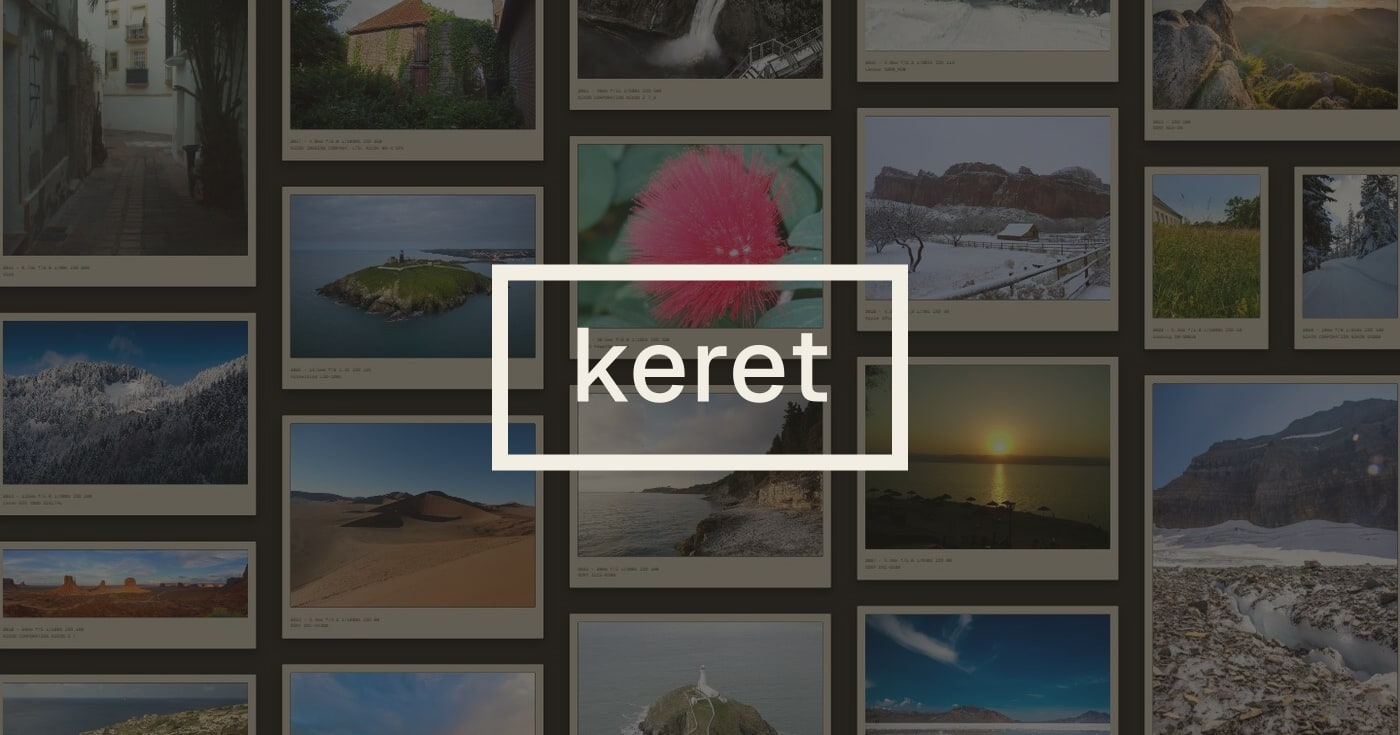
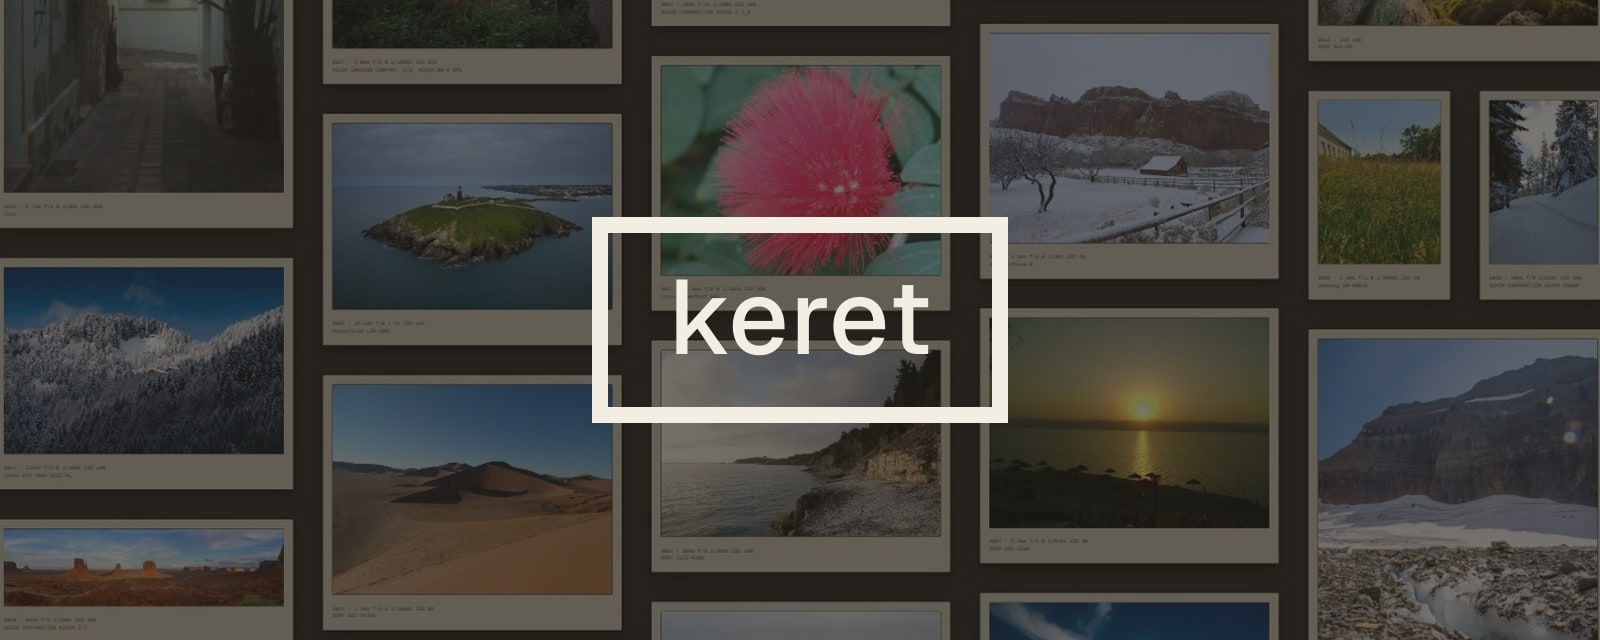
docs: a wide header strip, and a social card to upload
The README header was 1400x735 (1.9:1). Under the badges it read as a block and
took a third of the first screen; it is 1600x640 (2.5:1) now, so it reads as a
banner.

`npm run banner` also writes docs/assets/social-preview.jpg at 1200x630, the size
a social card is rendered at, for Settings > General > Social preview. A 2.5:1
strip would have been cropped there, and the mark is centered, so the card is
drawn at the ratio the preview uses instead of the ratio the README wants.

The frame now scales with the canvas (a quarter of its width, 0.475 of that
tall), so the strip and the card carry the same mark at the same weight rather
than two hand-picked sizes.

diff --git a/scripts/make-banner.js b/scripts/make-banner.js
@@ -1,22 +1,24 @@
 #!/usr/bin/env node
 'use strict';
 /*
- * make-banner.mjs - render the README images from one capture.
+ * make-banner.js - render the repository images from one capture.
  *
  *   node scripts/make-banner.js [source.jpg]
  *
  * Reads docs/assets/demo-wall.jpg (a plain capture of the demo wall at 1400px)
- * and writes two files next to it:
+ * and writes three files next to it:
  *
  *   demo-window.png    the wall inside a browser window, transparent, with a
  *                      drop shadow, so it can sit on any background
- *   readme-header.png  the title card: the same wall, dimmed, with the mark the
- *                      page's favicon and the social card use - a frame outline
- *                      with the wordmark inside it
+ *   readme-header.jpg   the title strip: the same wall, dimmed, with the mark the
+ *                      page's favicon and the generated social card use - a
+ *                      frame outline with the wordmark inside it
+ *   social-preview.jpg  the same mark at 1200x630, the size a social card is
+ *                      rendered at, for the repository's social preview setting
  *
- * Both are drawn with sharp, which is already a dependency: no browser, no
- * ImageMagick. The wordmark is set in Montserrat; a machine without it falls
- * back to the default sans, which is why the rendered files are committed.
+ * All three are drawn with sharp, which is already a dependency: no browser, no
+ * ImageMagick. The wordmark is set in the Geist Sans this repository ships, so
+ * the mark matches the wall it stands for.
  */
 
 const fs = require('fs');
@@ -121,14 +123,14 @@ async function buildWindow(source, out) {
 }
 
 /**
- * The title card: the wall dimmed almost to a wall, with the mark in the middle
- * - the frame the tool is named after, and the word inside it.
+ * The title card: the wall dimmed to a wall, with the mark in the middle - the
+ * frame the tool is named after, and the word inside it. The frame scales with
+ * the canvas, so the README strip and the social card carry the same mark at
+ * the same weight.
  */
-async function buildHeader(source, out) {
-  const width = 1400;
-  const height = 735;
-  const frameW = 400;
-  const frameH = 190;
+async function buildCard(source, out, width, height) {
+  const frameW = Math.round(width * 0.25);
+  const frameH = Math.round(frameW * 0.475);
   const cx = width / 2;
   const cy = height / 2;
 
@@ -140,8 +142,9 @@ async function buildHeader(source, out) {
   const card = svg(width, height,
     rect(0, 0, width, height, 0, WALL).replace('/>', ' opacity="0.62"/>')
     + rect(cx - frameW / 2, cy - frameH / 2, frameW, frameH, 0, 'none')
-      .replace('fill="none"', 'fill="none" stroke="' + INK + '" stroke-width="16"')
-    + text(cx, cy + 34, 104, INK, 'keret', { anchor: 'middle', weight: 500, spacing: 2 }));
+      .replace('fill="none"', 'fill="none" stroke="' + INK + '" stroke-width="' + Math.round(frameH * 0.084) + '"')
+    + text(cx, cy + Math.round(frameH * 0.18), Math.round(frameH * 0.55), INK, 'keret',
+      { anchor: 'middle', weight: 500, spacing: 2 }));
 
   await sharp(wall)
     .composite([{ input: card }])
@@ -159,8 +162,12 @@ async function main() {
     process.exit(1);
   }
   const window = await buildWindow(source, path.join(ASSETS, 'demo-window.png'));
-  const header = await buildHeader(source, path.join(ASSETS, 'readme-header.jpg'));
-  for (const file of [window, header]) {
+  // the README strip: wide and shallow, so it does not eat the first screen
+  const header = await buildCard(source, path.join(ASSETS, 'readme-header.jpg'), 1600, 640);
+  // 1200x630 is the size a social card is rendered at, so uploading this one to
+  // the repository's social preview crops nothing
+  const social = await buildCard(source, path.join(ASSETS, 'social-preview.jpg'), 1200, 630);
+  for (const file of [window, header, social]) {
     const { width, height } = await sharp(file).metadata();
     console.log(path.relative(ROOT, file) + '  ' + width + 'x' + height + '  ' + Math.round(fs.statSync(file).size / 1024) + ' kB');
   }

diff --git a/docs/SETUP.md b/docs/SETUP.md
@@ -137,6 +137,19 @@ The output is static: any web server, any static host. It works from a subpath
 For your own wall, commit its `dist/` and point `siteUrl` at the Pages URL; the
 same workflow pattern works with a different artifact path.
 
+### The repository's own images
+
+`docs/assets/` carries the pictures the repository shows: `readme-header.jpg`
+(the wide strip at the top of this README), `demo-window.png` (the wall in a
+browser window, transparent) and `social-preview.jpg`. All three are drawn from
+one capture by `npm run banner`, so a new capture is one command rather than a
+session in an image editor.
+
+For the link preview when someone shares the repository, upload
+`docs/assets/social-preview.jpg` in
+`Settings > General > Social preview`. It is drawn at 1200x630, the size a social
+card is rendered at, so nothing is cropped.
+
 ### Ports used in this repository
 
 | Port | Used by |

diff --git a/docs/CHANGELOG.md b/docs/CHANGELOG.md
@@ -31,6 +31,13 @@ now shares their line, their pill, their border and their blur, and it steps
 aside under 840px or on a coarse pointer, where there is no room for it beside
 the controls.
 
+`[Fix]` **A wide strip instead of a tall card.** The README header was 1400x735,
+which sat under the badges and took a third of the first screen. It is 1600x640
+now, and `npm run banner` also writes `docs/assets/social-preview.jpg` at
+1200x630 - the size a social card is rendered at - so the repository's social
+preview can use the mark without being cropped. The frame scales with the canvas,
+so both carry it at the same weight.
+
 `[Feature]` **Geist, and a choice of face.** The wall is set in Geist Mono or
 Geist Sans, and the choice is one config key (`font: "mono"`, the default, or
 `"sans"`). Both faces are variable (weight 100-900, one file each) and are copied

diff --git a/docs/ARCHITECTURE.md b/docs/ARCHITECTURE.md
@@ -23,7 +23,7 @@ scripts/serve.js           a zero-dependency static server for local preview
 scripts/check-build.js     structural check of a built directory, no browser
 scripts/check-stamp.js     is this build still in sync with the source?
 scripts/seed-placeholders.js  deterministic sample images (fixtures, and a wall with something on it)
-scripts/make-banner.js    the README images, drawn from one capture of the demo wall
+scripts/make-banner.js    the README and social images, drawn from one capture of the demo wall
 src/assets/fonts/         Geist Mono and Geist Sans, variable, weight 100-900 (SIL OFL 1.1)
 ```
 
